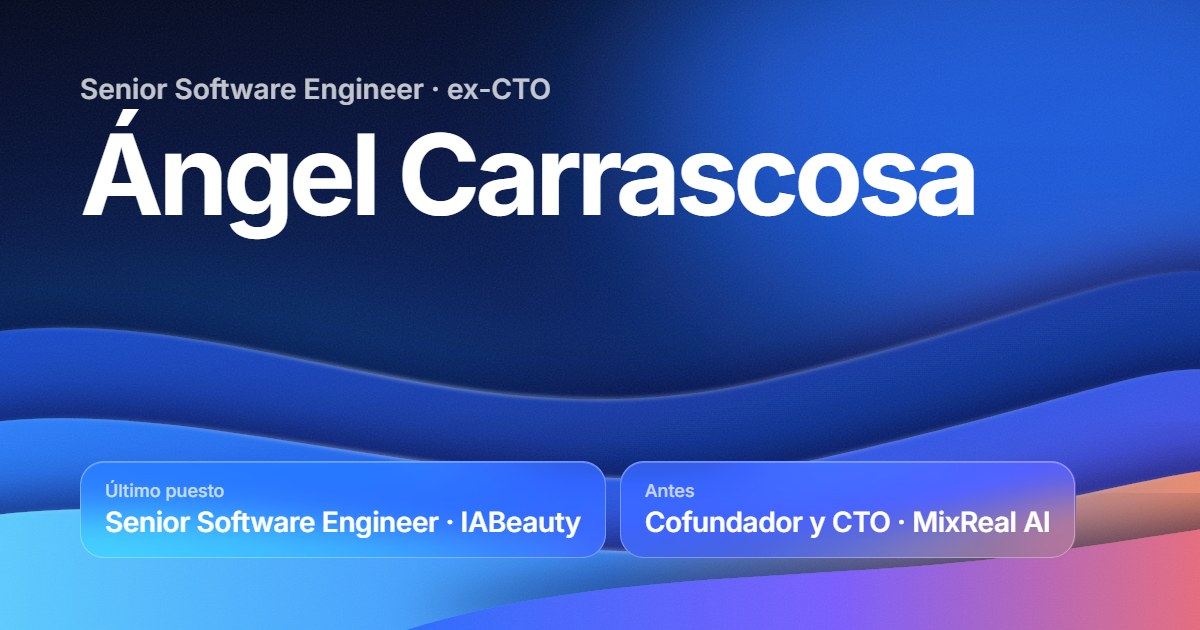
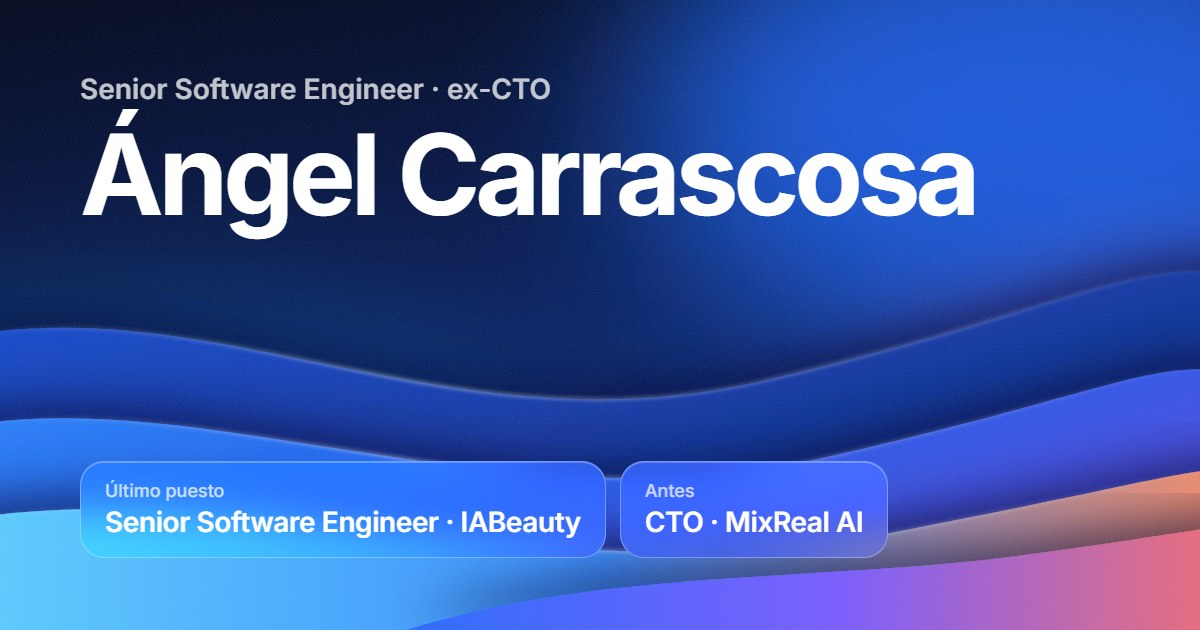
Show MixReal role as CTO
Drop the cofounder title from the hero, project pages, experience timeline and the social preview image.

Changed region(s): [[0.555, 0.7238, 0.8942, 0.9048]]

diff --git a/src/data/projects.ts b/src/data/projects.ts
@@ -80,14 +80,14 @@ export const projects: Project[] = [
   {
     slug: 'mixreal',
     name: 'MixReal AI',
-    role: 'Cofundador y CTO',
+    role: 'CTO',
     period: '2023 – 2025',
     summary:
       'Entré como programador y terminé como CTO. Por el camino saqué adelante la plataforma de IA generativa de la empresa y proyectos muy distintos para marcas como Heineken, Bayer o Alcampo.',
     title: 'Software, IA y realidad extendida para grandes marcas.',
     lead: 'Durante casi tres años llevé la tecnología de MixReal AI. Allí desarrollé la plataforma de IA generativa de la empresa y una larga lista de proyectos para clientes: tótems interactivos, realidad mixta para la industria, metaversos y filtros de realidad aumentada para marcas como Heineken, Bayer o Alcampo.',
     facts: [
-      { label: 'Rol', value: 'Cofundador y CTO. Antes, programador.' },
+      { label: 'Rol', value: 'CTO. Antes, programador.' },
       { label: 'Periodo', value: 'Febrero de 2023 – diciembre de 2025' },
       { label: 'Equipo', value: 'Dirigí el equipo de ingeniería' },
       { label: 'Base', value: 'Madrid · Híbrido' },
@@ -110,7 +110,7 @@ export const projects: Project[] = [
         title: 'Mi papel',
         body: [
           'Empecé en febrero de 2023 como programador: experiencias de realidad virtual en Unity, filtros de realidad aumentada y backend en Node.js.',
-          'En pocos meses pasé a dirigir la tecnología de la compañía como cofundador y CTO. Me encargué del equipo de ingeniería, de la hoja de ruta técnica y de la arquitectura de todo lo que construíamos, hasta diciembre de 2025.',
+          'En pocos meses pasé a dirigir la tecnología de la compañía como CTO. Me encargué del equipo de ingeniería, de la hoja de ruta técnica y de la arquitectura de todo lo que construíamos, hasta diciembre de 2025.',
           'Siempre con dos frentes abiertos: los encargos de cada cliente y nuestro propio SaaS.',
         ],
       },

diff --git a/src/data/profile.ts b/src/data/profile.ts
@@ -19,7 +19,7 @@ export const profile = {
 
 export const heroWidgets = [
   { label: 'Último puesto', value: 'Senior Software Engineer', detail: 'IABeauty · 2026' },
-  { label: 'Antes', value: 'Cofundador y CTO', detail: 'MixReal AI · 2023 – 2025' },
+  { label: 'Antes', value: 'CTO', detail: 'MixReal AI · 2023 – 2025' },
   { label: 'Especialidad', value: 'Full stack · Web y móvil', detail: 'React, Flutter, Node.js e IA' },
 ];
 
@@ -58,7 +58,7 @@ export const experience = [
   },
   {
     period: '2023 – 2025',
-    role: 'Cofundador y CTO',
+    role: 'CTO',
     place: 'MixReal AI · Madrid',
     note: 'Dirigí el equipo, la hoja de ruta y la arquitectura de todo lo que construíamos, del producto propio a los proyectos para clientes.',
     href: '/proyectos/mixreal/',
